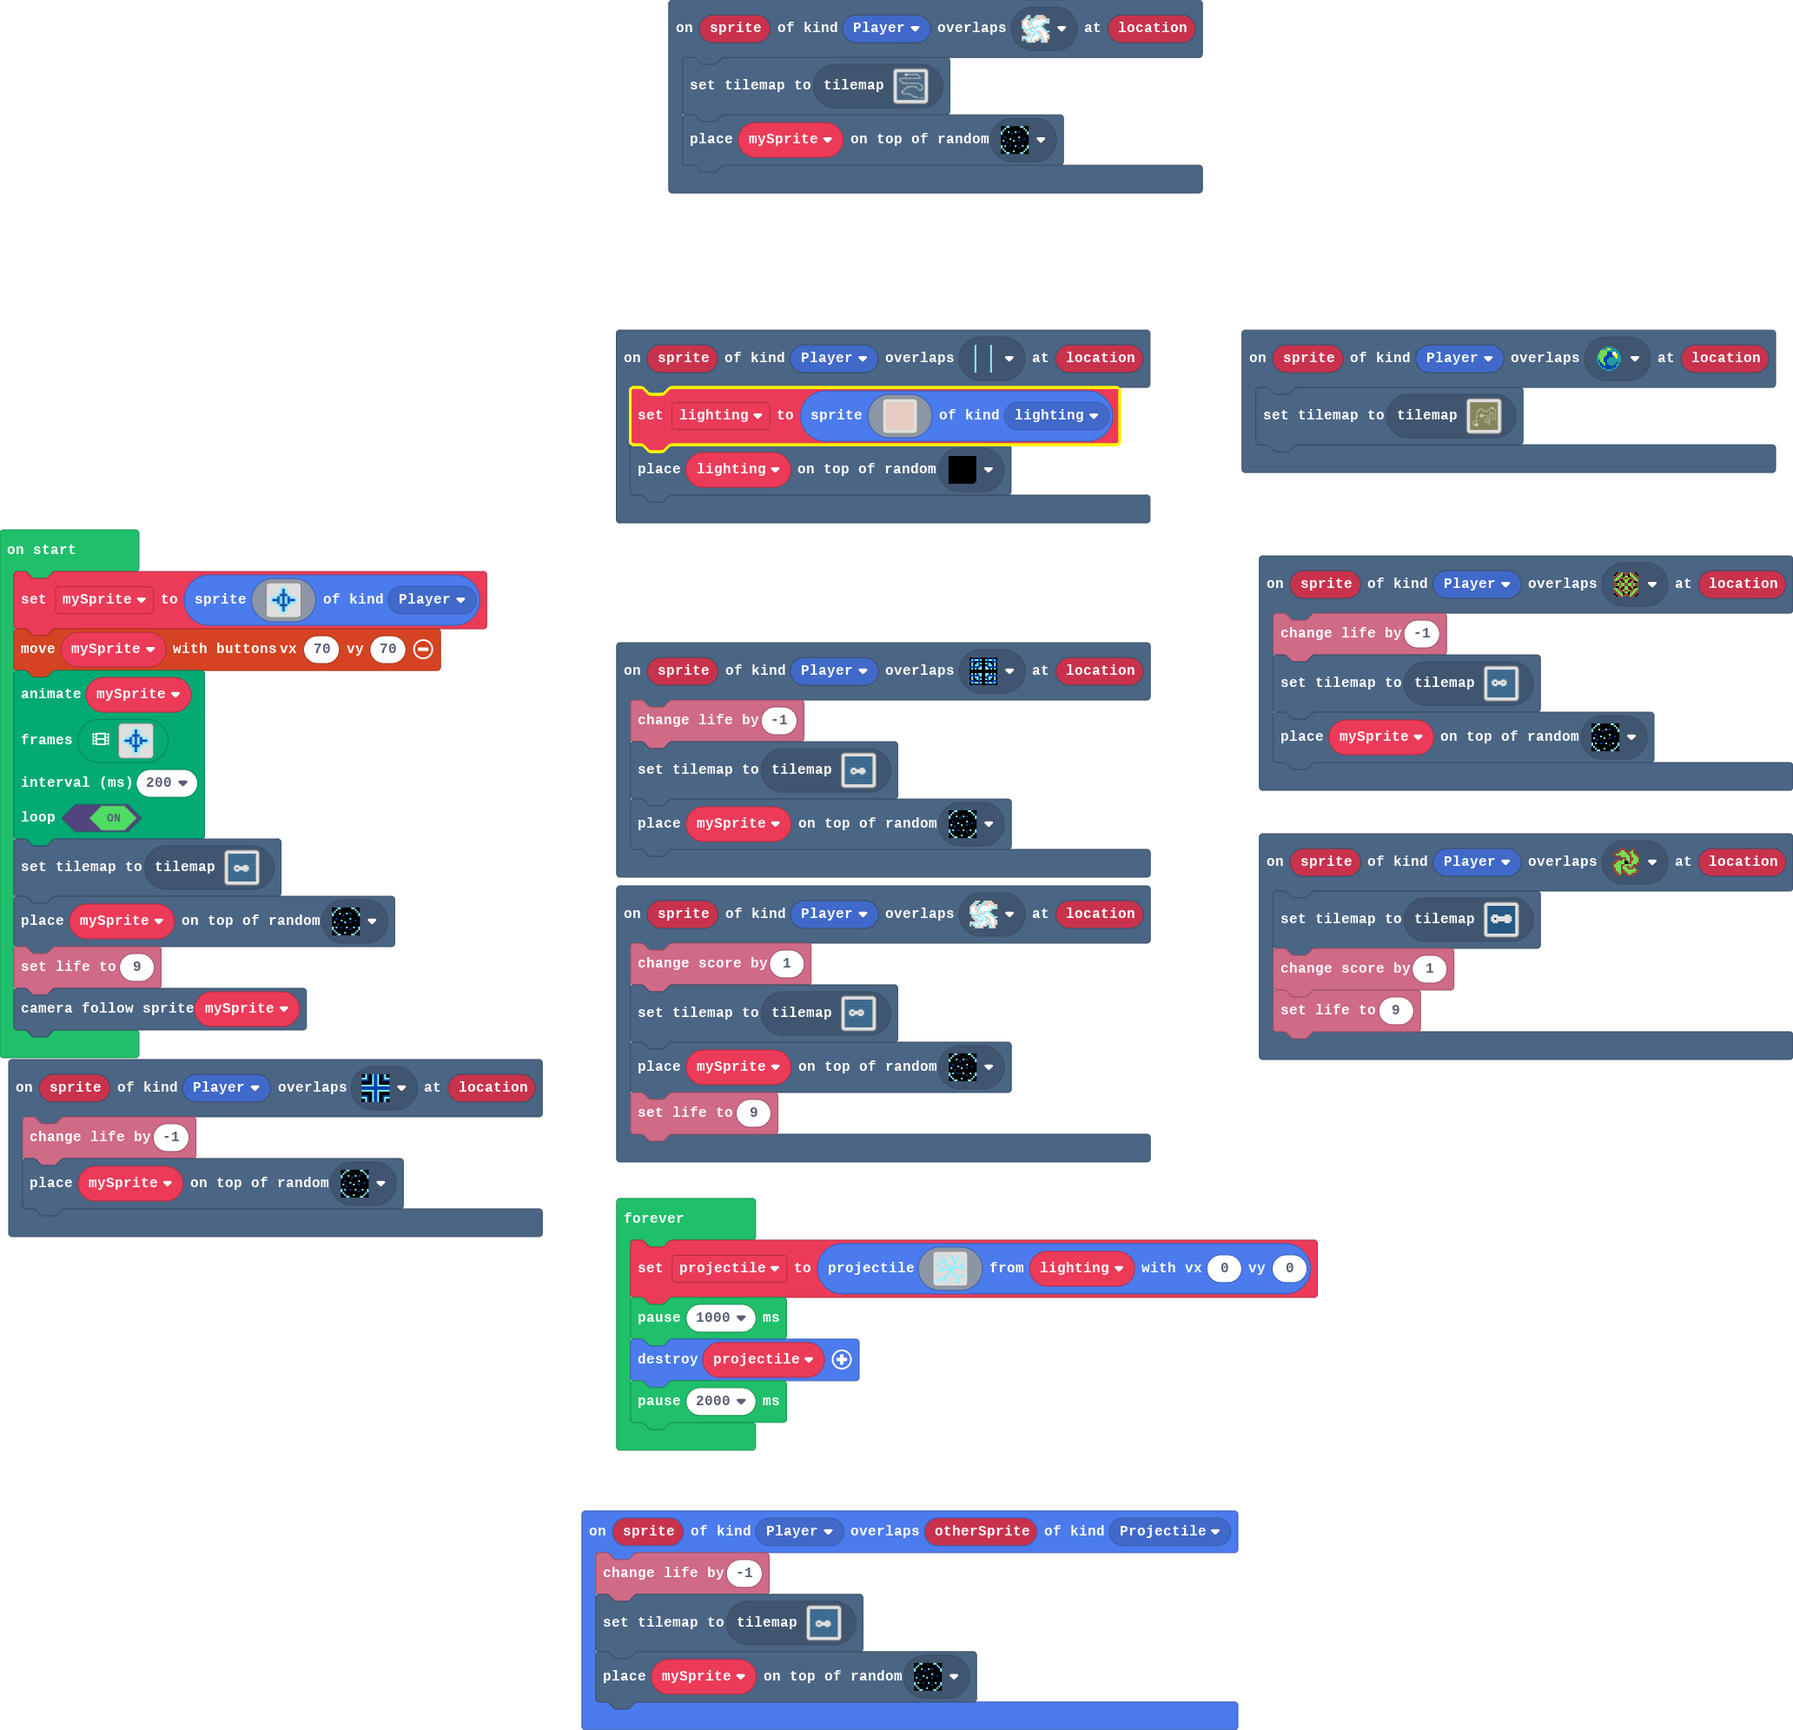
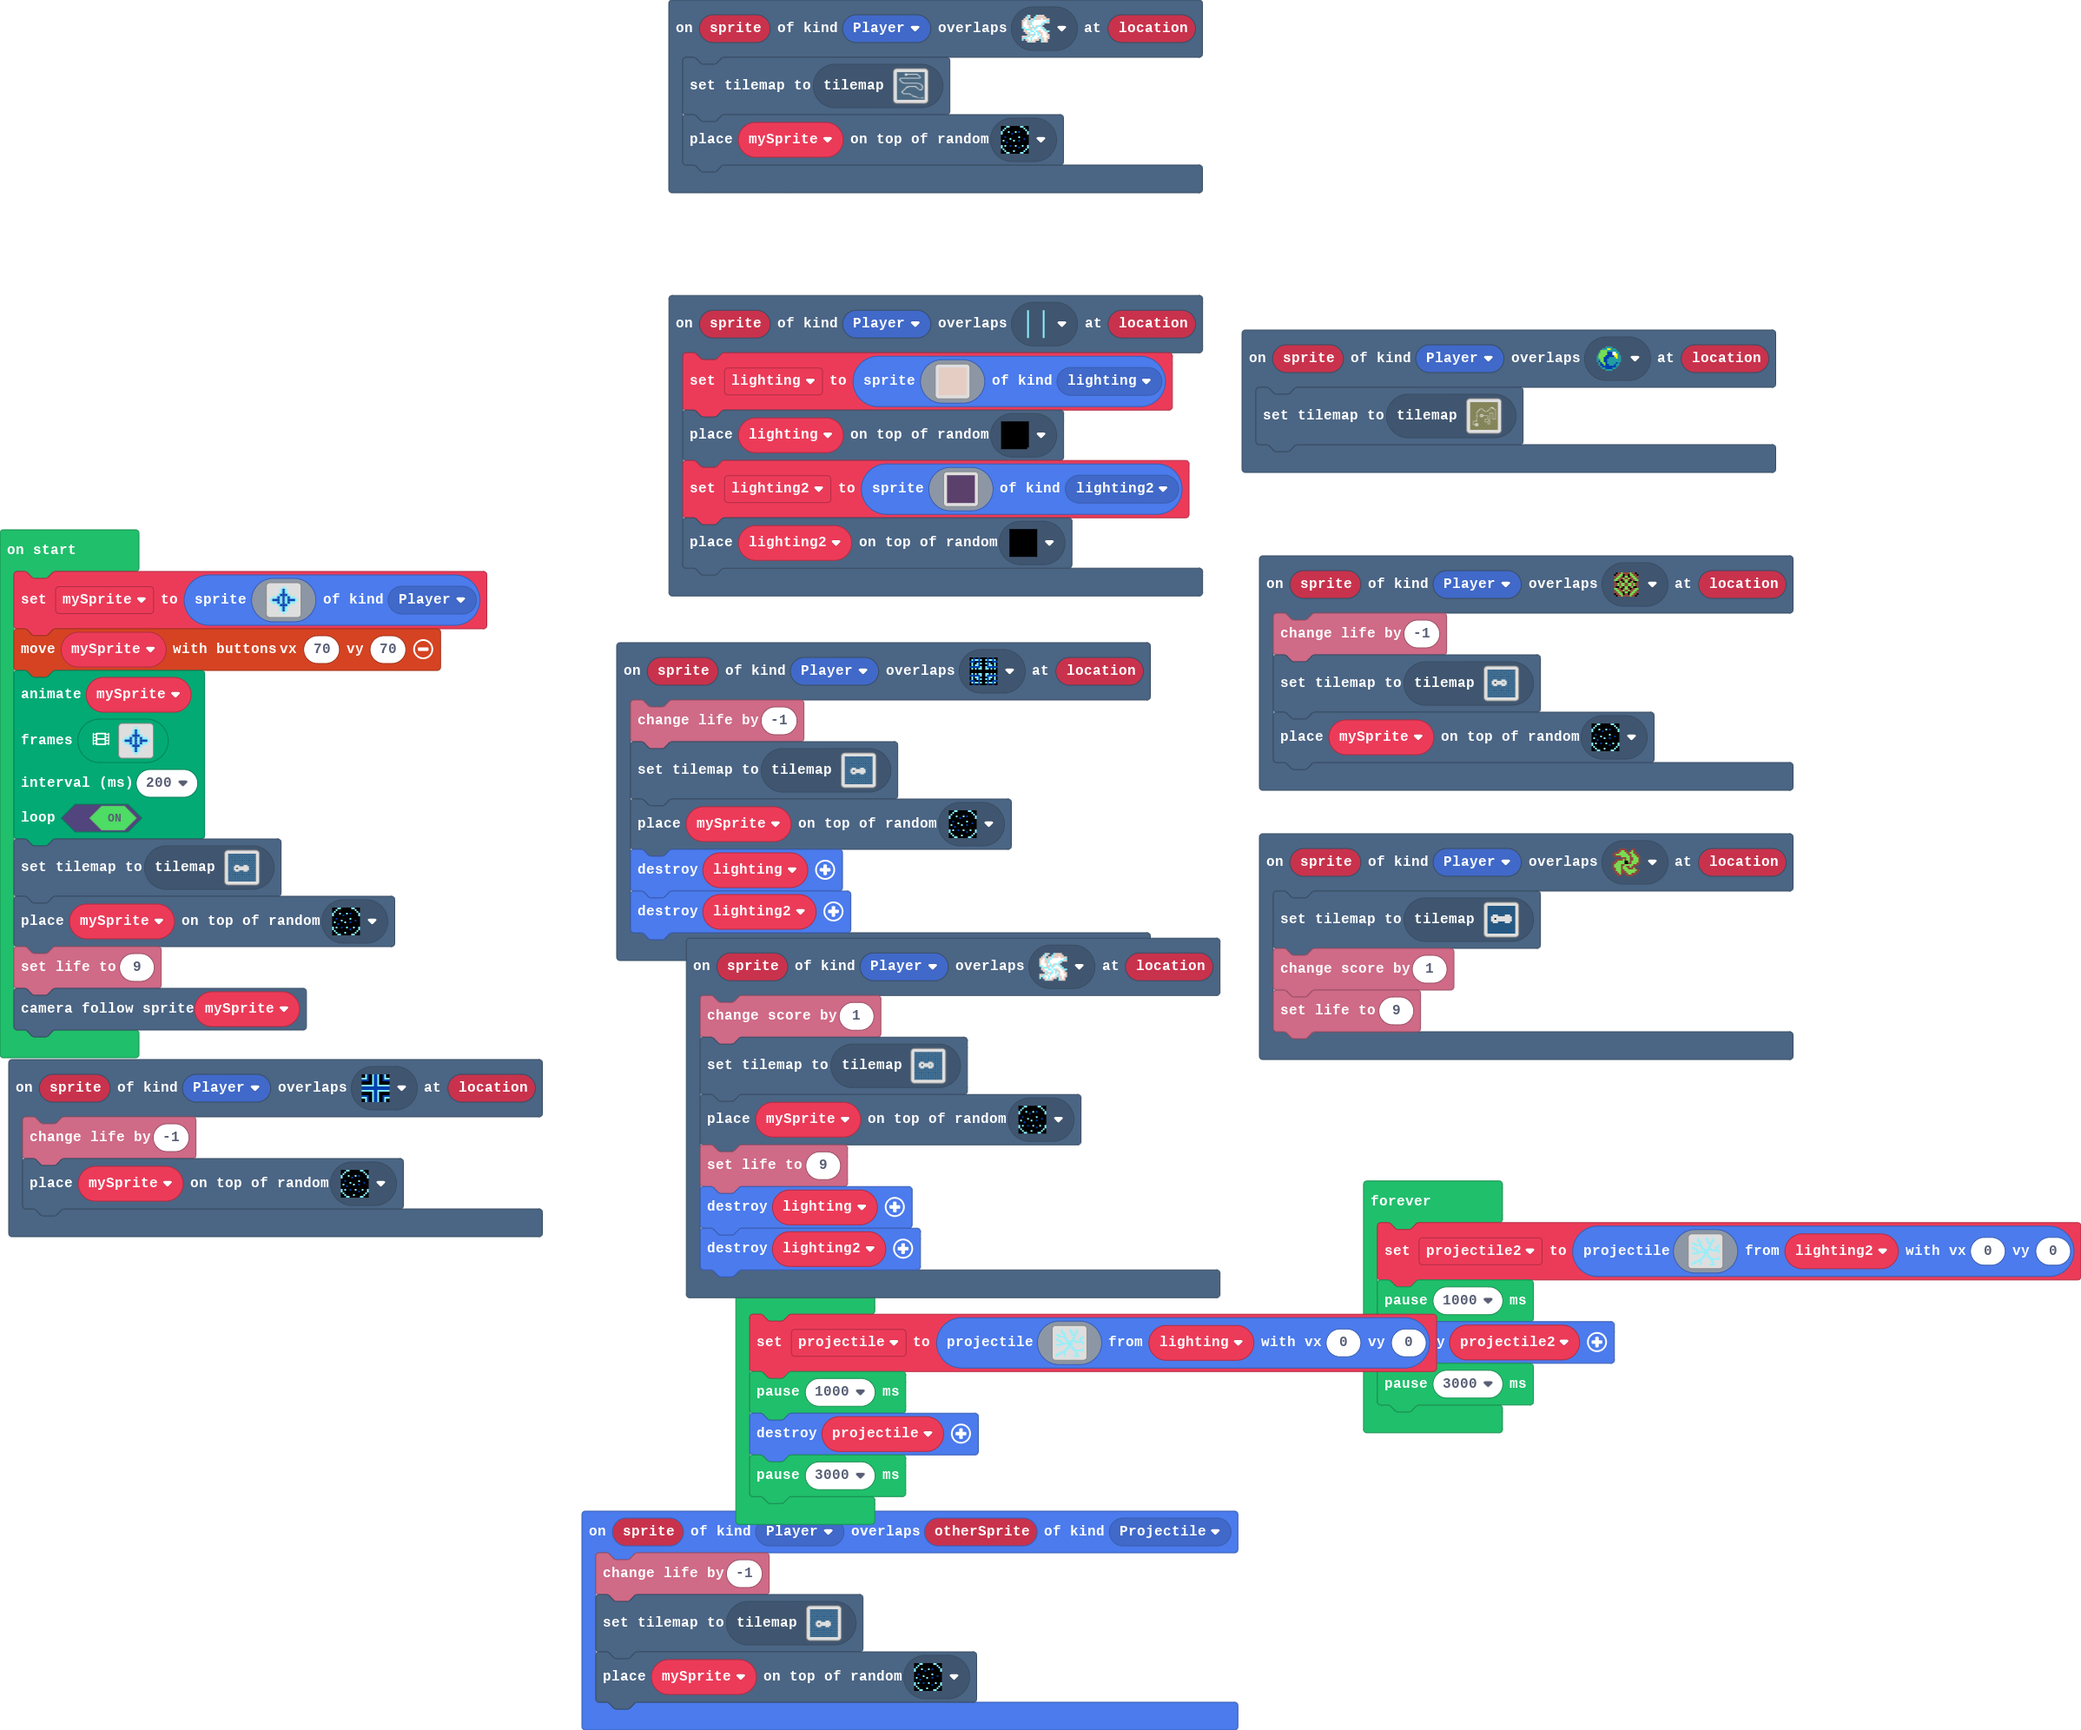
Update main.blocks, main.ts, tilemap.g.jres, tilemap.g.ts

diff --git a/tilemap.g.ts b/tilemap.g.ts
@@ -210,7 +210,7 @@ namespace myTiles {
 . . . . . . . . . . . . . . . . 
 `, [myTiles.transparency16,myTiles.tile1,myTiles.tile2], TileScale.Sixteen);
             case "level2":
-            case "level2":return tiles.createTilemap(hex`3200320002020202020202020202020202020202020202020202020202020202020202020202020202020202020202020202020202020202020202020202020202020202020202020202020202020202020202020202020202020202020202020202020202020202020202020202020202020202020202000000020202020202020202020202020202020202020202020202020202020202020202020202020202020202020202020000000000000000000000000400000000000000000000000202020202020202020202020202020202020202020202020202000003000000000000000000000000000000000400000000000202020202020202020202020202020202020202020202020200000000000202020202020202020202020202020202020000000202020202020202020202020202020202020202020202020200000002020202020202020202020202020202020202020000000202020202020202020202020202020202020202020202020202020202020202020202020202020202020202020202020004000202020202020202020202020202020202020202020202020202020202020202020202020202020202020202020202020000000202020202020202020202020202020202020202020202020202020202020202020202020202020202020202020202020000020202020202020202020202020000000000000000000000000000000000000000000004000000000000000000000000000002020202020202020202020200040000000000000000000000000400000000000000000000000000000000000000000000020202020202020202020202000000020202020202020202020202020202020202020202020202020202020202020202020202020202020202020202020200000202020202020202020202020202020202020202020202020202020202020202020202020202020202020202020202020000000202020202020202020202020202020202020202020202020202020202020202020202020202020202020202020202020000000202020202020202020202020202020202020202020202020202020202020202020202020202020202020202020202020004000202020202020202020202020202020202020202020202020202020202020202020202020202020202020202020202020000000202020202020202020202020202020202020202020202020202020202020202020202020202020202020202020202020000000002020202020202020202020202020202020202020202020202020202020202020202020202020202020202020202020000000000000000000000000000000000000000000000000000000000000202020202020202020202020202020202020202020200000000000000000000000400000000000000000000000000000000000000020202020202020202020202020202020202020202020202020202020202020202020202020202020202020202020200000400000202020202020202020202020202020202020202020202020202020202020202020202020202020202020202020202020000000202020202020202020202020202020202020202020202020202020202020202020202020202020202020202020202020000000202020202020202020202020202020202020202020202020202020202020202020202020202020202020202020202020000000202020202020202020202020202020202020202020200000000000000000000000400000000020202020202020202000000020202020202020202020202020202020202020200000000000000000000000000000000000000020202020202020202000002020202020202020202020202020202020202000004000002020202020202020202020200000000020202020202020204000202020202020202020202020202020202020000000002020202020202020202020202020202000000020202020202020000020202020202020202020202020202020200000002020202020202020202020202020202020202000400020202020200000002020202020202020202020202020202000000020202020202020202020202020202020202020202000000020202020000020202020202020202020202020202020004000202020202020202020202020202020202020202020202020000000000000002020202020202020202020202020200000002020202020202020202020202020202020202020202020202020000000000020202020202020202020202020202000000020202020202020202020202020202020202020202020202020202020202020202020202020202020202020202000000000202020202020202020202020202020202020202020202020202020202020202020202020202020202020202020200000002020202020202020202020202020202020202020202020202020202020202020202020202020202020202020202020000000202020202020202020202020202020202020202020202020202020202020202020202020202020202020202020202020000000202020202020202020202020202020202020202020202020202020202020202020202020202020202020202020202020000000000000000000000000000020202020202020202020202020202020202020202020202020202020202020202020202020000000000040000000000000000020202020202020202020202020202020202020202020202020202020202020202020202020202020202020202020202000000000002020202020202020202020202020202020202020202020202020202020202020202020202020202020202020202020000040002020202020202020202020202020202020202020202020202020202020202020202020202020202020202020202020200000002020202020202020202020202020202020202020202020202020202020202020202020202020202020202020202020200000000000000020202020202020202020202020202020202020202020202020202020202020202020202020202020202020200000000000000000202020202020202020202020202020202020202020202020202020202020202020202020202020202020202020202000004000202020202020200000002020202020202020202020202020202020202020202020202020202020202020202020202020000000000000000050001000202020202020202020202020202020202020202020202020202020202020202020202020202020202020202020202000000020202020202020202020202020202020202020202020202020202020202020202020202020202020202020202020202020202020202020202020202020202020202020202020202020202020202020202020202020202020202020202020202020202020202`, img`
+            case "level2":return tiles.createTilemap(hex`3200320002020202020202020202020202020202020202020202020202020202020202020202020202020202020202020202020202020202020202020202020202020202020202020202020202020202020202020202020202020202020202020202020202020202020202020202020202020202020202000000020202020202020202020202020202020202020202020202020202020202020202020202020202020202020202020000000000000000000000000000000000000000000000000202020202020202020202020202020202020202020202020202000003000000000000000000000000000000000000000000000202020202020202020202020202020202020202020202020200000000000202020202020202020202020202020202020000000202020202020202020202020202020202020202020202020200000002020202020202020202020202020202020202020000000202020202020202020202020202020202020202020202020202020202020202020202020202020202020202020202020000000202020202020202020202020202020202020202020202020202020202020202020202020202020202020202020202020000000202020202020202020202020202020202020202020202020202020202020202020202020202020202020202020202020000020202020202020202020202020000000000000000000000000000000000000000000000000000000000000000000000000002020202020202020202020200000000000000000000000000000000000000000000000000000000000000000000000000020202020202020202020202000000020202020202020202020202020202020202020202020202020202020202020202020202020202020202020202020200000202020202020202020202020202020202020202020202020202020202020202020202020202020202020202020202020000000202020202020202020202020202020202020202020202020202020202020202020202020202020202020202020202020000000202020202020202020202020202020202020202020202020202020202020202020202020202020202020202020202020000000202020202020202020202020202020202020202020202020202020202020202020202020202020202020202020202020000000202020202020202020202020202020202020202020202020202020202020202020202020202020202020202020202020000000002020202020202020202020202020202020202020202020202020202020202020202020202020202020202020202020000000000000000000000000000000000000000000000000000000000000202020202020202020202020202020202020202020200000000000000000000000000000000000000000000000000000000000000020202020202020202020202020202020202020202020202020202020202020202020202020202020202020202020200000000000202020202020202020202020202020202020202020202020202020202020202020202020202020202020202020202020000000202020202020202020202020202020202020202020202020202020202020202020202020202020202020202020202020000000202020202020202020202020202020202020202020202020202020202020202020202020202020202020202020202020000000202020202020202020202020202020202020202020200000000000000000000000000000000020202020202020202000000020202020202020202020202020202020202020200000000000000000000000000000000000000020202020202020202000002020202020202020202020202020202020202000000000002020202020202020202020200000000020202020202020200000202020202020202020202020202020202020000000002020202020202020202020202020202000000020202020202020000020202020202020202020202020202020200000002020202020202020202020202020202020202000000020202020200000002020202020202020202020202020202000000020202020202020202020202020202020202020202000000020202020000020202020202020202020202020202020000000202020202020202020202020202020202020202020202020000000000000002020202020202020202020202020200000002020202020202020202020202020202020202020202020202020000000000020202020202020202020202020202000000020202020202020202020202020202020202020202020202020202020202020202020202020202020202020202000000000202020202020202020202020202020202020202020202020202020202020202020202020202020202020202020200000002020202020202020202020202020202020202020202020202020202020202020202020202020202020202020202020000000202020202020202020202020202020202020202020202020202020202020202020202020202020202020202020202020000000202020202020202020202020202020202020202020202020202020202020202020202020202020202020202020202020000000000000000000000000000020202020202020202020202020202020202020202020202020202020202020202020202020000000000000000000000000000020202020202020202020202020202020202020202020202020202020202020202020202020202020202020202020202000000000002020202020202020202020202020202020202020202020202020202020202020202020202020202020202020202020000060002020202020202020202020202020202020202020202020202020202020202020202020202020202020202020202020200000002020202020202020202020202020202020202020202020202020202020202020202020202020202020202020202020200000000000000020202020202020202020202020202020202020202020202020202020202020202020202020202020202020200000000000000000202020202020202020202020202020202020202020202020202020202020202020202020202020202020202020202000004000202020202020200000002020202020202020202020202020202020202020202020202020202020202020202020202020000000000000000050001000202020202020202020202020202020202020202020202020202020202020202020202020202020202020202020202000000020202020202020202020202020202020202020202020202020202020202020202020202020202020202020202020202020202020202020202020202020202020202020202020202020202020202020202020202020202020202020202020202020202020202`, img`
 ..................................................
 ..................................................
 ..................................................
@@ -261,7 +261,7 @@ namespace myTiles {
 ..................................................
 ..................................................
 ..................................................
-`, [myTiles.transparency16,myTiles.tile2,myTiles.tile3,myTiles.tile5,myTiles.tile6,myTiles.tile7], TileScale.Sixteen);
+`, [myTiles.transparency16,myTiles.tile2,myTiles.tile3,myTiles.tile5,myTiles.tile6,myTiles.tile7,myTiles.tile8], TileScale.Sixteen);
         }
         return null;
     })

diff --git a/main.ts b/main.ts
@@ -1,10 +1,13 @@
 namespace SpriteKind {
     export const lighting = SpriteKind.create()
+    export const lighting2 = SpriteKind.create()
 }
 scene.onOverlapTile(SpriteKind.Player, assets.tile`myTile1`, function (sprite, location) {
     info.changeLifeBy(-1)
     tiles.setCurrentTilemap(tilemap`level1`)
     tiles.placeOnRandomTile(mySprite, assets.tile`myTile0`)
+    sprites.destroy(lighting)
+    sprites.destroy(lighting2)
 })
 scene.onOverlapTile(SpriteKind.Player, assets.tile`myTile`, function (sprite, location) {
     info.changeLifeBy(-1)
@@ -20,6 +23,8 @@ scene.onOverlapTile(SpriteKind.Player, assets.tile`myTile3`, function (sprite, l
     tiles.setCurrentTilemap(tilemap`level3`)
     tiles.placeOnRandomTile(mySprite, assets.tile`myTile0`)
     info.setLife(9)
+    sprites.destroy(lighting)
+    sprites.destroy(lighting2)
 })
 scene.onOverlapTile(SpriteKind.Player, sprites.dungeon.collectibleBlueCrystal, function (sprite, location) {
     tiles.setCurrentTilemap(tilemap`level7`)
@@ -43,8 +48,14 @@ scene.onOverlapTile(SpriteKind.Player, assets.tile`myTile5`, function (sprite, l
         d 
         `, SpriteKind.lighting)
     tiles.placeOnRandomTile(lighting, assets.tile`myTile4`)
+    lighting2 = sprites.create(img`
+        c 
+        `, SpriteKind.lighting2)
+    tiles.placeOnRandomTile(lighting2, assets.tile`myTile6`)
 })
 let projectile: Sprite = null
+let projectile2: Sprite = null
+let lighting2: Sprite = null
 let lighting: Sprite = null
 let mySprite: Sprite = null
 mySprite = sprites.create(img`
@@ -120,6 +131,33 @@ tiles.placeOnRandomTile(mySprite, assets.tile`myTile0`)
 info.setLife(9)
 scene.cameraFollowSprite(mySprite)
 forever(function () {
+    projectile2 = sprites.createProjectileFromSprite(img`
+        ....9.....9....9....
+        ....9.....99...9....
+        ....99.....9..99....
+        .....99....99.9.....
+        999...9.....999.....
+        ..99999......9.....9
+        ......99....99....99
+        99.....9....9....99.
+        .999...999.9999..9..
+        ...99....999..999999
+        ....99999999.......9
+        99999....999........
+        .........9.9........
+        ........99.99.......
+        .......99...99.....9
+        ......99.....9999999
+        ....999.......9.....
+        ..999.9.......99....
+        999...9........9....
+        9.....9......9999...
+        `, lighting2, 0, 0)
+    pause(1000)
+    sprites.destroy(projectile2)
+    pause(3000)
+})
+forever(function () {
     projectile = sprites.createProjectileFromSprite(img`
         ....9.....9....9....
         ....9.....99...9....
@@ -144,5 +182,5 @@ forever(function () {
         `, lighting, 0, 0)
     pause(1000)
     sprites.destroy(projectile)
-    pause(2000)
+    pause(3000)
 })
